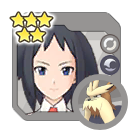
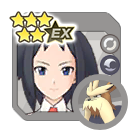
Add v2.26.0

Changed region(s): [[0.2963, 0.1185, 0.5926, 0.3556], [0.3556, 0.0889, 0.3852, 0.1185], [0.2963, 0.0889, 0.3259, 0.1185]]

diff --git a/js/syncpairs.js b/js/syncpairs.js
@@ -677,6 +677,32 @@ export const SYNCPAIRS = [
 		]
 	},
 	{
+		"dexNumber": "010",
+		"trainerName": "Kris",
+		"trainerAlt": "Eevee Day",
+		"pokemonNumber": "0135",
+		"pokemonName": "Jolteon",
+		"pokemonGender": "♀",
+		"pokemonForm": [],
+		"pokemonType": "Electric",
+		"pokemonWeak": "Ground",
+		"syncPairRole": "Tech",
+		"syncPairRarity": "5",
+		"releaseDate": "2022-11-21",
+		"syncPairRegion": "2Johto",
+		"images": [
+			"Sync Pairs/0B_JOHTO/0B_JOHTO_0A-03_VS_Kris.png"
+		],
+		"tags": [
+			"Event",
+			"isWoman",
+			"Limited Sync Pair Scout",
+			"Multiple Units",
+			"Terrain",
+			"Main Character"
+		]
+	},
+	{
 		"dexNumber": "011",
 		"trainerName": "Bugsy",
 		"trainerAlt": "",
@@ -2433,7 +2459,8 @@ export const SYNCPAIRS = [
 		"releaseDate": "2019-08-29",
 		"syncPairRegion": "5Unova",
 		"images": [
-			"Sync Pairs/0E_UNOVA/0E_UNOVA_0A-03_Cheren.png"
+			"Sync Pairs/0E_UNOVA/0E_UNOVA_0A-03_Cheren.png",			
+			"Sync Pairs/0E_UNOVA/0E_UNOVA_0A-03_Cheren_EX.png"
 		],
 		"tags": [
 			"Story",
@@ -2657,6 +2684,32 @@ export const SYNCPAIRS = [
 		]
 	},
 	{
+		"dexNumber": "066",
+		"trainerName": "Lyra",
+		"trainerAlt": "Eevee Day",
+		"pokemonNumber": "0134",
+		"pokemonName": "Vaporeon",
+		"pokemonGender": "♀",
+		"pokemonForm": [],
+		"pokemonType": "Water",
+		"pokemonWeak": "Grass",
+		"syncPairRole": "Tech",
+		"syncPairRarity": "5",
+		"releaseDate": "2022-11-21",
+		"syncPairRegion": "2Johto",
+		"images": [
+			"Sync Pairs/0B_JOHTO/0B_JOHTO_0A-02_VS_Lyra.png"
+		],
+		"tags": [
+			"Event",
+			"isWoman",
+			"Limited Sync Pair Scout",
+			"Multiple Units",
+			"Weather",
+			"Main Character"
+		]
+	},
+	{
 		"dexNumber": "067",
 		"trainerName": "Hilbert",
 		"trainerAlt": "",
@@ -2705,6 +2758,34 @@ export const SYNCPAIRS = [
 			"Multiple Units",
 			"isMan",
 			"Main Character"
+		]
+	},
+	{
+		"dexNumber": "067",
+		"trainerName": "Hilbert",
+		"trainerAlt": "Sygna Suit",
+		"pokemonNumber": "0649",
+		"pokemonName": "Pokemon",
+		"pokemonGender": "",
+		"pokemonForm": [],
+		"pokemonType": "Bug",
+		"pokemonWeak": "Fire",
+		"syncPairRole": "Tech",
+		"syncPairRarity": "5",
+		"releaseDate": "2022-11-02",
+		"syncPairRegion": "5Unova",
+		"images": [
+			"Sync Pairs/0E_UNOVA/0E_UNOVA_0A-01_SSHilbert.png",
+			"Sync Pairs/0E_UNOVA/0E_UNOVA_0A-01_SSHilbert_EX.png"
+		],
+		"tags": [
+			"isMan",
+			"Limited Sync Pair Scout",
+			"Multiple Units",
+			"Poké Fair",
+			"Main Character",
+			"Mythical",
+			"Sygna Suit"
 		]
 	},
 	{
@@ -2787,6 +2868,34 @@ export const SYNCPAIRS = [
 		]
 	},
 	{
+		"dexNumber": "068",
+		"trainerName": "Hilda",
+		"trainerAlt": "Sygna Suit",
+		"pokemonNumber": "0494",
+		"pokemonName": "Victini",
+		"pokemonGender": "",
+		"pokemonForm": [],
+		"pokemonType": "Fire",
+		"pokemonWeak": "Dark",
+		"syncPairRole": "Physical Strike",
+		"syncPairRarity": "5",
+		"releaseDate": "2022-10-31",
+		"syncPairRegion": "5Unova",
+		"images": [
+			"Sync Pairs/0E_UNOVA/0E_UNOVA_0A-02_SSHilda.png",
+			"Sync Pairs/0E_UNOVA/0E_UNOVA_0A-02_SSHilda_EX.png"
+		],
+		"tags": [
+			"isWoman",
+			"Limited Sync Pair Scout",
+			"Multiple Units",
+			"Poké Fair",
+			"Main Character",
+			"Mythical",
+			"Sygna Suit"
+		]
+	},
+	{
 		"dexNumber": "069",
 		"trainerName": "Elesa",
 		"trainerAlt": "",
@@ -2860,6 +2969,31 @@ export const SYNCPAIRS = [
 			"Multiple Units",
 			"isWoman",
 			"Terrain",
+			"Gym Leader"
+		]
+	},
+	{
+		"dexNumber": "069",
+		"trainerName": "Elesa",
+		"trainerAlt": "Lodge",
+		"pokemonNumber": "0595",
+		"pokemonName": "Joltik",
+		"pokemonGender": "♀",
+		"pokemonForm": [],
+		"pokemonType": "Electric",
+		"pokemonWeak": "Fire",
+		"syncPairRole": "Support",
+		"syncPairRarity": "4",
+		"releaseDate": "2022-11-01",
+		"syncPairRegion": "5Unova",
+		"images": [
+			"Sync Pairs/0E_UNOVA/0E_UNOVA_0B-04_TL_Elesa.png",
+			"Sync Pairs/5Star/0E_UNOVA_0B-04_TL_Elesa_5Star.png"
+		],
+		"tags": [
+			"isWoman",
+			"Multiple Units",
+			"Trainer Lodge",
 			"Gym Leader"
 		]
 	},
@@ -5106,6 +5240,36 @@ export const SYNCPAIRS = [
 		]
 	},
 	{
+		"dexNumber": "112",
+		"trainerName": "N",
+		"trainerAlt": "Sygna Suit",
+		"pokemonNumber": "0646",
+		"pokemonName": "Kyurem",
+		"pokemonGender": "",
+		"pokemonForm": ["Black Kyurem"],
+		"pokemonType": "Ice",
+		"pokemonWeak": "Fairy",
+		"syncPairRole": "Tech",
+		"syncPairRarity": "5",
+		"releaseDate": "2022-11-14",
+		"syncPairRegion": "5Unova",
+		"images": [
+			"Sync Pairs/0E_UNOVA/0E_UNOVA_0E-03_SSN.png",
+			"Sync Pairs/0E_UNOVA/0E_UNOVA_0E-03_SSN_EX.png"
+		],
+		"tags": [
+			"Buddy Move",
+			"isMan",
+			"Limited Sync Pair Scout",
+			"Multiple Units",
+			"Poké Fair",
+			"Rival",
+			"Vilain",
+			"Legendary",
+			"Sygna Suit"
+		]
+	},
+	{
 		"dexNumber": "113",
 		"trainerName": "May",
 		"trainerAlt": "",
@@ -5740,7 +5904,8 @@ export const SYNCPAIRS = [
 		"releaseDate": "2021-05-04",
 		"syncPairRegion": "5Unova",
 		"images": [
-			"Sync Pairs/0E_UNOVA/0E_UNOVA_0D-01_Ghetsis.png"
+			"Sync Pairs/0E_UNOVA/0E_UNOVA_0D-01_Ghetsis.png",
+			"Sync Pairs/0E_UNOVA/0E_UNOVA_0D-01_Ghetsis_EX.png"
 		],
 		"tags": [
 			"Legendary Adventures",
@@ -6421,6 +6586,32 @@ export const SYNCPAIRS = [
 		]
 	},
 	{
+		"dexNumber": "145",
+		"trainerName": "Lucas",
+		"trainerAlt": "Eevee Day",
+		"pokemonNumber": "0136",
+		"pokemonName": "Flareon",
+		"pokemonGender": "♂",
+		"pokemonForm": [],
+		"pokemonType": "Fire",
+		"pokemonWeak": "Rock",
+		"syncPairRole": "Tech",
+		"syncPairRarity": "5",
+		"releaseDate": "2022-11-21",
+		"syncPairRegion": "4Sinnoh",
+		"images": [
+			"Sync Pairs/0D_SINNOH/0D_SINNOH_0A-01_VS_Lucas.png"
+		],
+		"tags": [
+			"Event",
+			"isMan",
+			"Limited Sync Pair Scout",
+			"Multiple Units",
+			"Weather",
+			"Main Character"
+		]
+	},
+	{
 		"dexNumber": "146",
 		"trainerName": "Aaron",
 		"trainerAlt": "",
@@ -6741,6 +6932,54 @@ export const SYNCPAIRS = [
 			"Event",
 			"isWoman",
 			"Limited Sync Pair Scout"
+		]
+	},
+	{
+		"dexNumber": "159",
+		"trainerName": "Hugh",
+		"trainerAlt": "",
+		"pokemonNumber": "0626",
+		"pokemonName": "Bouffalant",
+		"pokemonGender": "♂",
+		"pokemonForm": [],
+		"pokemonType": "Normal",
+		"pokemonWeak": "Fighting",
+		"syncPairRole": "Physical Strike",
+		"syncPairRarity": "5",
+		"releaseDate": "2022-11-07",
+		"syncPairRegion": "5Unova",
+		"images": [
+			"Sync Pairs/0E_UNOVA/0E_UNOVA_0A-07_Hugh.png",
+			"Sync Pairs/0E_UNOVA/0E_UNOVA_0A-07_Hugh_EX.png"
+		],
+		"tags": [
+			"isMan",
+			"Gen Pool",
+			"Rival"
+		]
+	},
+	{
+		"dexNumber": "160",
+		"trainerName": "Colress",
+		"trainerAlt": "",
+		"pokemonNumber": "0601",
+		"pokemonName": "Klinklang",
+		"pokemonGender": "",
+		"pokemonForm": [],
+		"pokemonType": "Steel",
+		"pokemonWeak": "Ground",
+		"syncPairRole": "Tech",
+		"syncPairRarity": "5",
+		"releaseDate": "2022-11-17",
+		"syncPairRegion": "5Unova",
+		"images": [
+			"Sync Pairs/0E_UNOVA/0E_UNOVA_0D-02_Colress.png",
+			"Sync Pairs/0E_UNOVA/0E_UNOVA_0D-02_Colress_EX.png"
+		],
+		"tags": [
+			"isMan",
+			"Gen Pool",
+			"Vilain"
 		]
 	}
 	/*,

diff --git a/index.html b/index.html
@@ -21,11 +21,12 @@
 <body>
 	<div id="main">
 		<div id="leftSide">
-			<p id="version">v2.25.0</p>
+			<p id="version">v2.26.0</p>
 
 			<div id="btnEggs"></div>
 
 			<ul id="news">
+				<li><span>2022-10-27</span><span>Add v2.26.0</span></li>
 				<li><span>2022-10-25</span><span>→&nbsp;&nbsp;&nbsp;Add new filters<br>→&nbsp;&nbsp;&nbsp;Add new options&nbsp;&nbsp;:&nbsp;&nbsp;visibility options,<br>lock mode, filter by release date interval,<br>current star buttons, ...</span></li>
 				<li><span>2022-10-10</span><span>Add the possibility to mark a sync pair<br>as a favorite / custom tag</span></li>
 				<li><span>2022-09-26</span><span>→&nbsp;&nbsp;&nbsp;Add new filters<br>→&nbsp;&nbsp;&nbsp;Add ★ upgrade for eggmons<br>→&nbsp;&nbsp;&nbsp;Add/rework options buttons<br>→&nbsp;&nbsp;&nbsp;Add v2.25.0</span></li>
